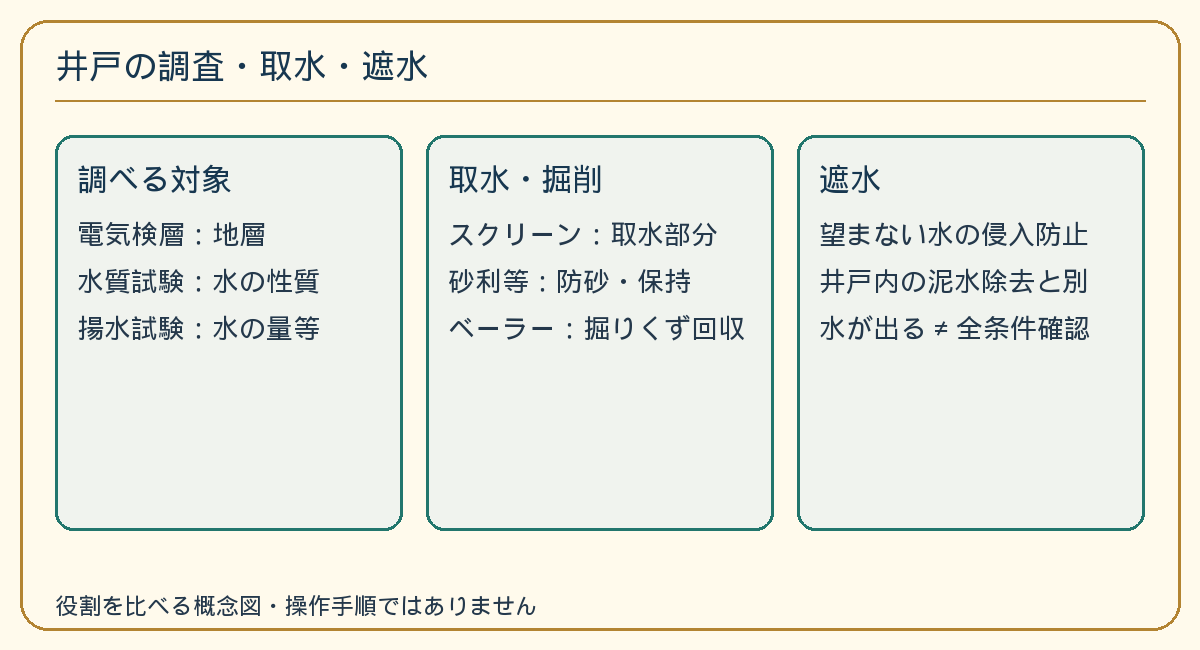
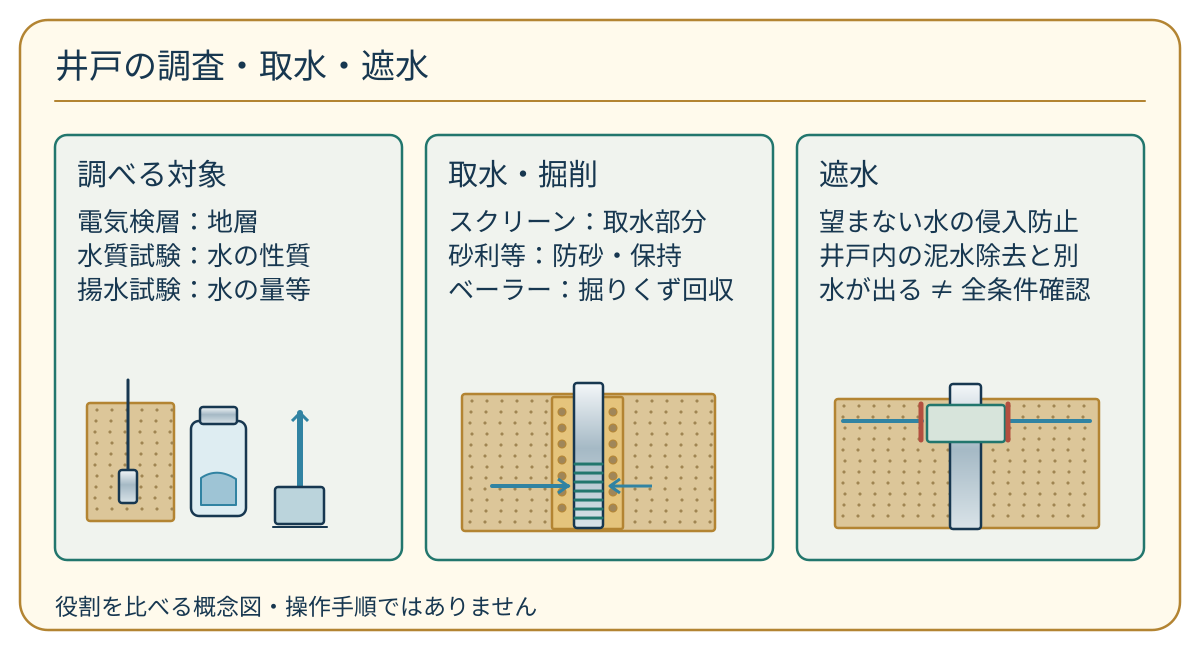
fix(kensetsu): illustrate civil well transport and tunnel work distinctions

diff --git a/scripts/kensetsu-authoring/draw-royal-differential-groupC03.py b/scripts/kensetsu-authoring/draw-royal-differential-groupC03.py
@@ -1,0 +1,43 @@
+"""Civil well, marine and tunnel relationship diagrams, not specifications."""
+from pathlib import Path
+# Reuse scoped controlled card primitives without generating earlier groups.
+s=Path(__file__).with_name('draw-royal-differential-groupC02.py').read_text().split('# Ground/rod')[0]
+s=s.replace("in ['c7','c8','c9']", "in ['c10','c11','c12']").replace("groupC02'","groupC03'")
+exec(s)
+# Three investigated quantities remain separate from intake and sealing geometry.
+b=soil(87,403,87,118)+line(128,380,128,499,N,3)+rect(119,470,18,33,'url(#metal)',N,3)
+b+=rect(191,421,55,95,'#DEEDF2',N,8)+rect(200,407,37,17,'url(#metal)',N,3)+path('M201 478 Q217 467 236 479 V505 H201 Z','#9EC4D5','#3183A2',2)
+b+=line(300,413,300,507,'#3183A2',6)+path('M292 421 L300 413 L308 421','none','#3183A2',3)+rect(275,487,49,37,'#BBD4DC',N,3)+line(273,527,327,527,N,2)
+b+=soil(462,394,253,137)+rect(552,397,71,132,'#E5C47C',G,2)+rect(574,383,29,145,'url(#metal)',N,3)
+for y in range(464,522,9):b+=line(575,y,602,y,T,3)
+for xx in [562,613]:
+ for yy in range(412,523,16):b+=f'<circle cx="{xx}" cy="{yy}" r="4" fill="#A08659" stroke="{G}" stroke-width="1"/>'
+b+=arrow(492,486,568,486,'#3183A2')+path('M652 486 L610 486 M620 479 L610 486 L620 493','none','#3183A2',3)
+b+=soil(835,399,264,129)+rect(950,384,31,145,'url(#metal)',N,3)+rect(927,405,78,37,'#D7E4DB',T,3)
+b+=line(843,421,922,421,'#3183A2',4)+line(921,404,921,440,'#B34F40',5)
+b+=line(1009,421,1090,421,'#3183A2',4)+line(1008,404,1008,440,'#B34F40',5)
+save('c10',b)
+# Fleet scope, vessel motion/anchor/winch, and bitt-eye contact are separate.
+b=rect(186,370,71,28,'#E5C47C',G,5)+line(221,400,221,425,N,2)+line(122,425,322,425,N,2)
+for xx in [104,204,304]:b+=line(xx+17,425,xx+17,448,N,2)+path(f'M{xx-11} 456 H{xx+45} L{xx+35} 474 H{xx} Z','url(#metal)')+rect(xx+6,441,20,14,'#C7DCD5',T,2)
+b+=path('M101 510 H129 L121 530 H109 Z','#E5C47C',G,2)+line(115,487,115,510,N,3)+path('M115 489 L136 499 L115 499 Z','#C7DCD5',T,2)
+b+=path('M459 481 H505 L493 500 H468 Z','#C8DCE5')+line(508,486,554,486,G,2)+path('M560 479 H710 L694 504 H575 Z','url(#metal)')
+b+=rect(575,390,59,54,'url(#metal)',N,4)
+for xx in range(584,628,7):b+=line(xx,393,xx,441,N,2)
+b+=line(635,417,682,417,G,3)+path('M682 418 V459 M663 445 Q682 476 701 445 M673 432 H691','none',N,4)
+b+=rect(935,403,38,97,'url(#metal)',N,4)+rect(915,396,78,17,'url(#metal)',N,4)+rect(908,499,95,16,'#A9B8B1',N,4)
+b+=f'<ellipse cx="955" cy="449" rx="64" ry="29" fill="none" stroke="{G}" stroke-width="8"/>'+path('M894 450 Q866 463 843 503','none',G,7)
+save('c11',b)
+# Excavation face/geology versus vehicle, and separate monitor channels/ventilation.
+b=path('M104 525 V421 Q142 366 199 421 V525 Z','#DCC699',G,4)
+for x,y in [(135,414),(172,427),(142,456),(181,474)]:b+=path(f'M{x} {y} l15 -7 10 14 -16 10 Z','#B69D71',G,2)
+b+=path('M158 409 L146 431 L154 449','none',N,2)+line(229,393,229,534,G,2)
+b+=rect(273,450,178,53,'url(#metal)',N,5)+rect(281,418,63,34,'#C4D7CF',N,3)
+for xx in [306,414]:b+=f'<circle cx="{xx}" cy="510" r="14" fill="#B7C7CE" stroke="{N}" stroke-width="4"/>'
+b+=rect(673,387,177,150,'url(#metal)',N,12)
+for y,label in [(412,'O₂'),(455,'CO'),(498,'CO₂')]:b+=rect(687,y-15,149,32,'#FFFAEC',T,3)+text(700,y+8,label,23)
+b+=rect(922,410,73,76,'#C4D7CF',N,6)+f'<circle cx="958" cy="448" r="25" fill="#E5C47C" stroke="{N}" stroke-width="3"/>'
+for angle in [0,120,240]:b+=f'<path d="M958 448 Q941 421 959 426 Q980 434 958 448" transform="rotate({angle} 958 448)" fill="#A5B9C5" stroke="{N}" stroke-width="1"/>'
+b+=arrow(1007,448,1100,448,'#3183A2')
+save('c12',b)
+print('Wrote c10/c11/c12 technical relations,1200x650')
